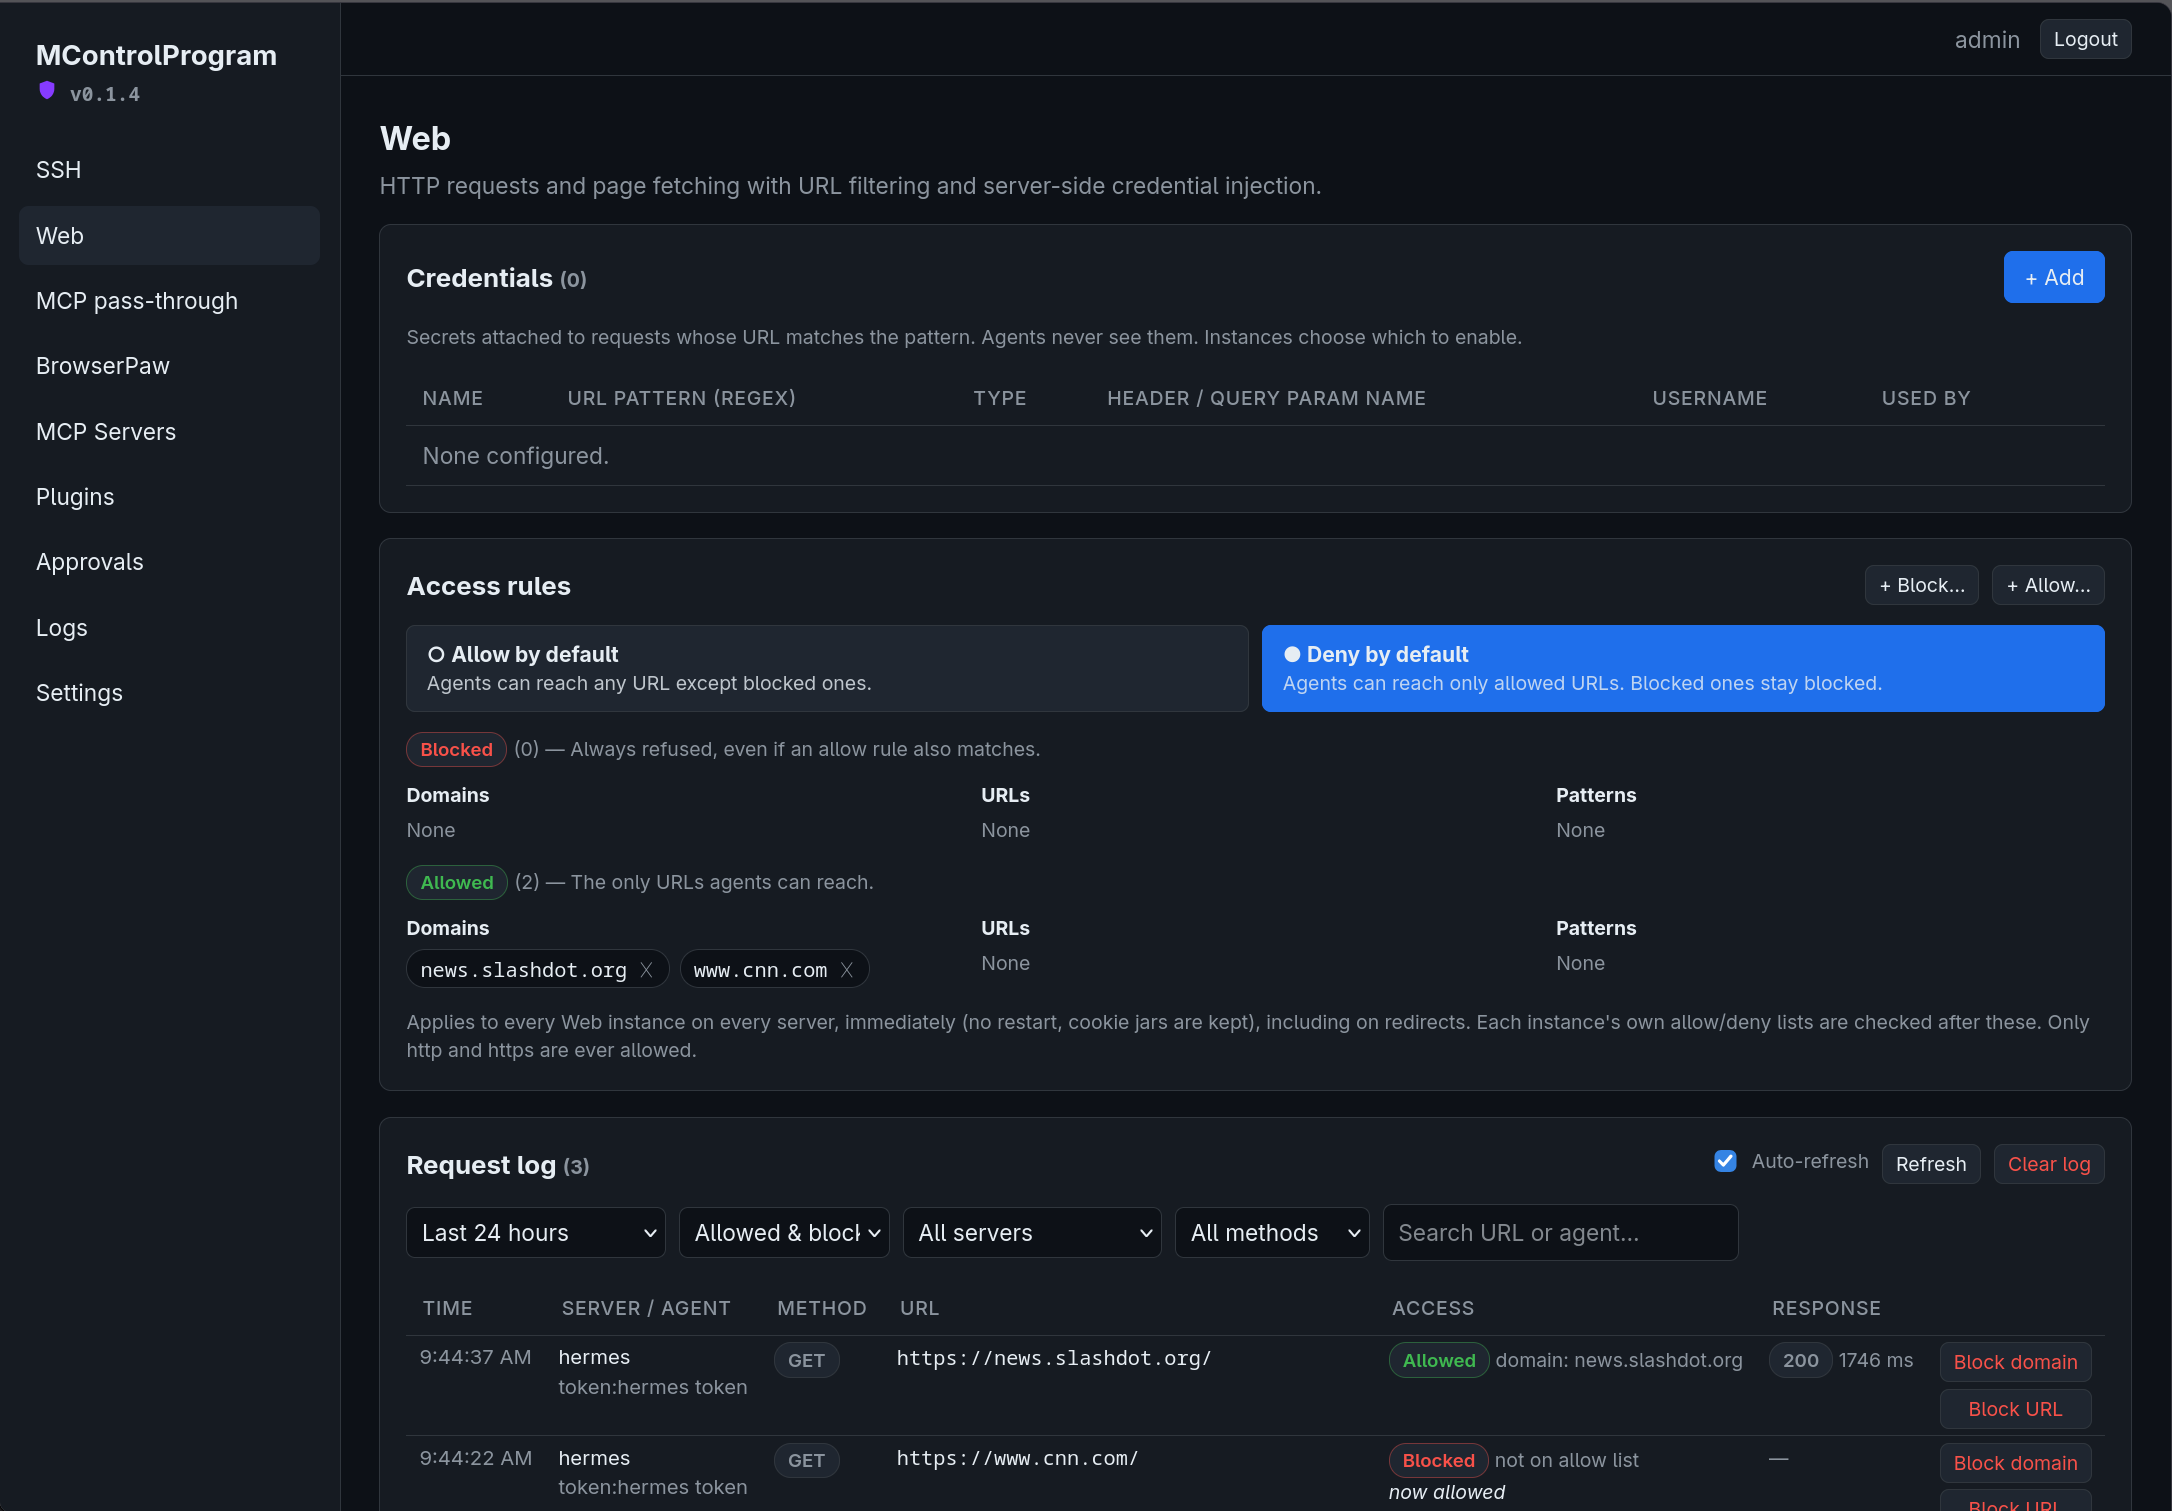
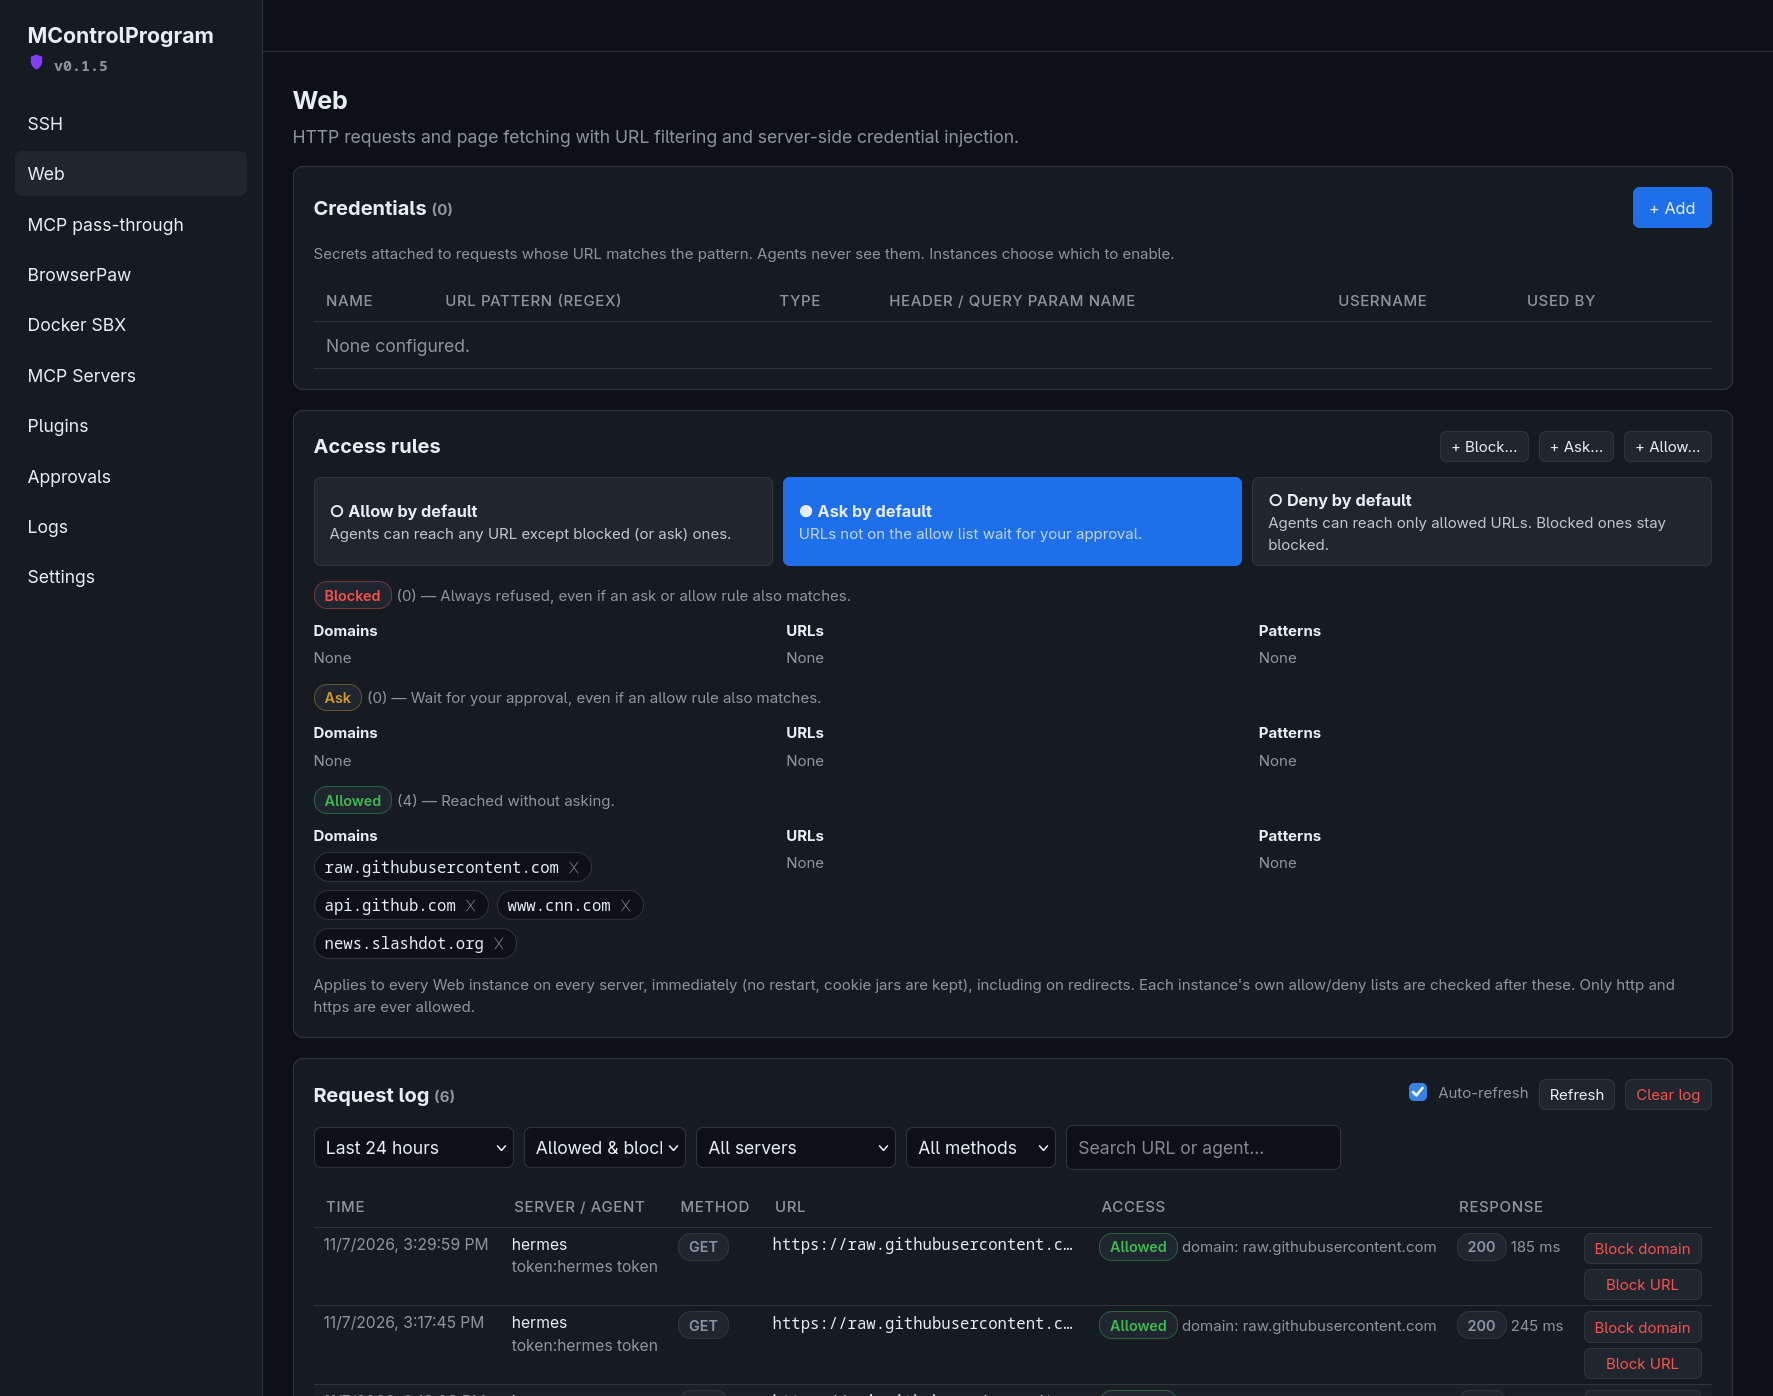
README: 0.1.5 screenshots for SSH, Web and BrowserPaw; merge BrowserPaw images into one

diff --git a/README.md b/README.md
@@ -18,23 +18,21 @@ agent's exposure at any moment is limited to what you have deliberately opened u
 
 ![Approving an MCP tool call](docs/images/mcp-approval.png)
 
-**SSH** — hosts agents may use, with per-server toggles, global command allow/deny rules (parsed with a real shell grammar, so pipes, `sudo`, `sh -c` and `$( )` are all checked) and a command log.
+**SSH** — hosts agents may use, with per-server toggles, global command rules (allow, ask or deny by default, plus blocked / ask / allowed programs, commands, patterns and written files; parsed with a real shell grammar, so pipes, `sudo`, `sh -c` and `$( )` are all checked) and a filterable command log.
 
-![SSH plugin: host inventory, per-server toggles and command rules](docs/images/ssh.png)
+![SSH plugin: host inventory, per-server toggles, command rules and command log](docs/images/ssh.png)
 
-**Web** — HTTP and page fetching with server-side credential injection, global URL access rules (allow/deny by default, domains, URLs, regex) and a request log with one-click *Block domain* / *Block URL*.
+**Web** — HTTP and page fetching with server-side credential injection, global URL access rules (allow, ask or deny by default; blocked / ask / allowed domains, URLs and regex) and a request log with one-click *Block domain* / *Block URL*.
 
-![Web plugin: access rules and request log](docs/images/web.png)
+![Web plugin: credentials, access rules and request log](docs/images/web.png)
 
 **BrowserPaw** — isolated Chromium profiles on SSH, native or manual hosts, each with its own logins and bridge. Agents get browser tools and never see SSH access or the bridge token.
 
 Every BrowserPaw browser runs from its own dedicated Chromium user-data directory, so profiles are **completely separate** from each other (cookies, logins, history and extensions are never shared) and from the main user's everyday browser on that computer. An agent working in one profile cannot see another profile's sessions, or yours.
 
-![BrowserPaw plugin: browser hosts and profiles](docs/images/browserpaw-hosts.png)
+BrowserPaw has its own URL access rules (allow, ask or deny by default), pushed to every profile (fail closed if a browser is out of sync), and a per-agent log of everything the browser loads or is refused, with one-click *Allow* / *Block* per domain or URL.
 
-BrowserPaw has its own URL access rules, pushed to every profile (fail closed if a browser is out of sync), and a per-agent log of everything the browser loads or is refused.
-
-![BrowserPaw plugin: URL access rules and request log](docs/images/browserpaw-policy.png)
+![BrowserPaw plugin: browser hosts, profiles, URL access rules and request log](docs/images/browserpaw.png)
 
 ## Architecture
 
